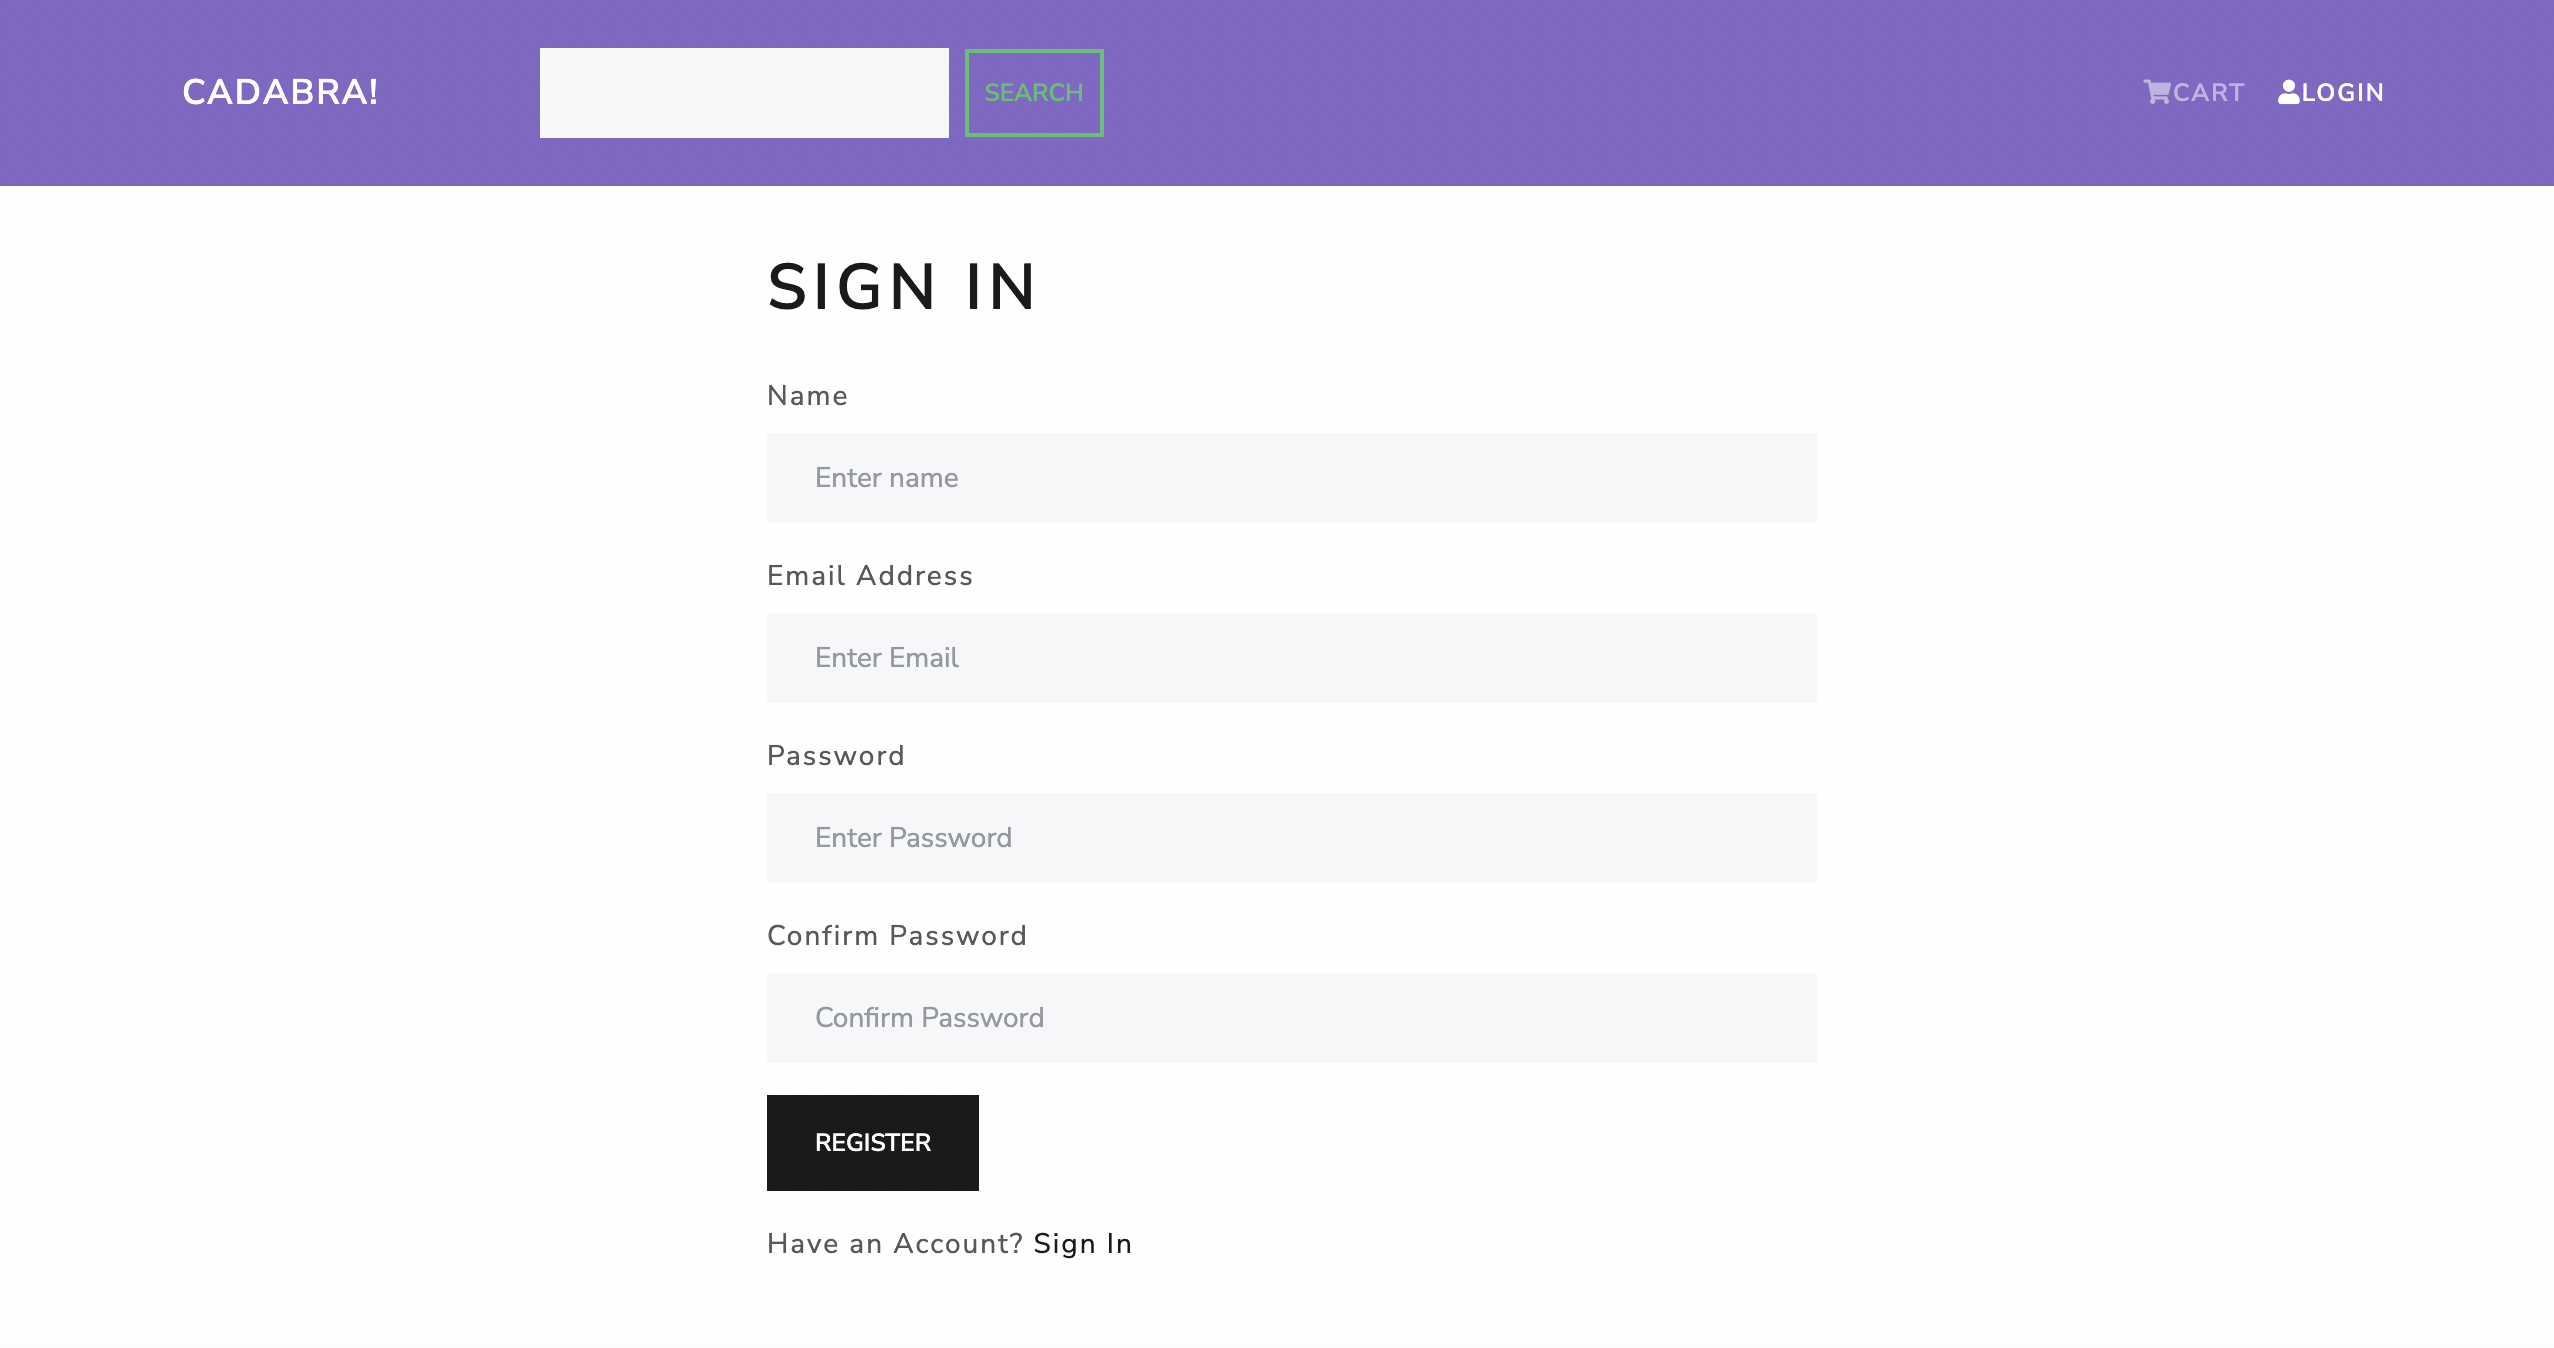
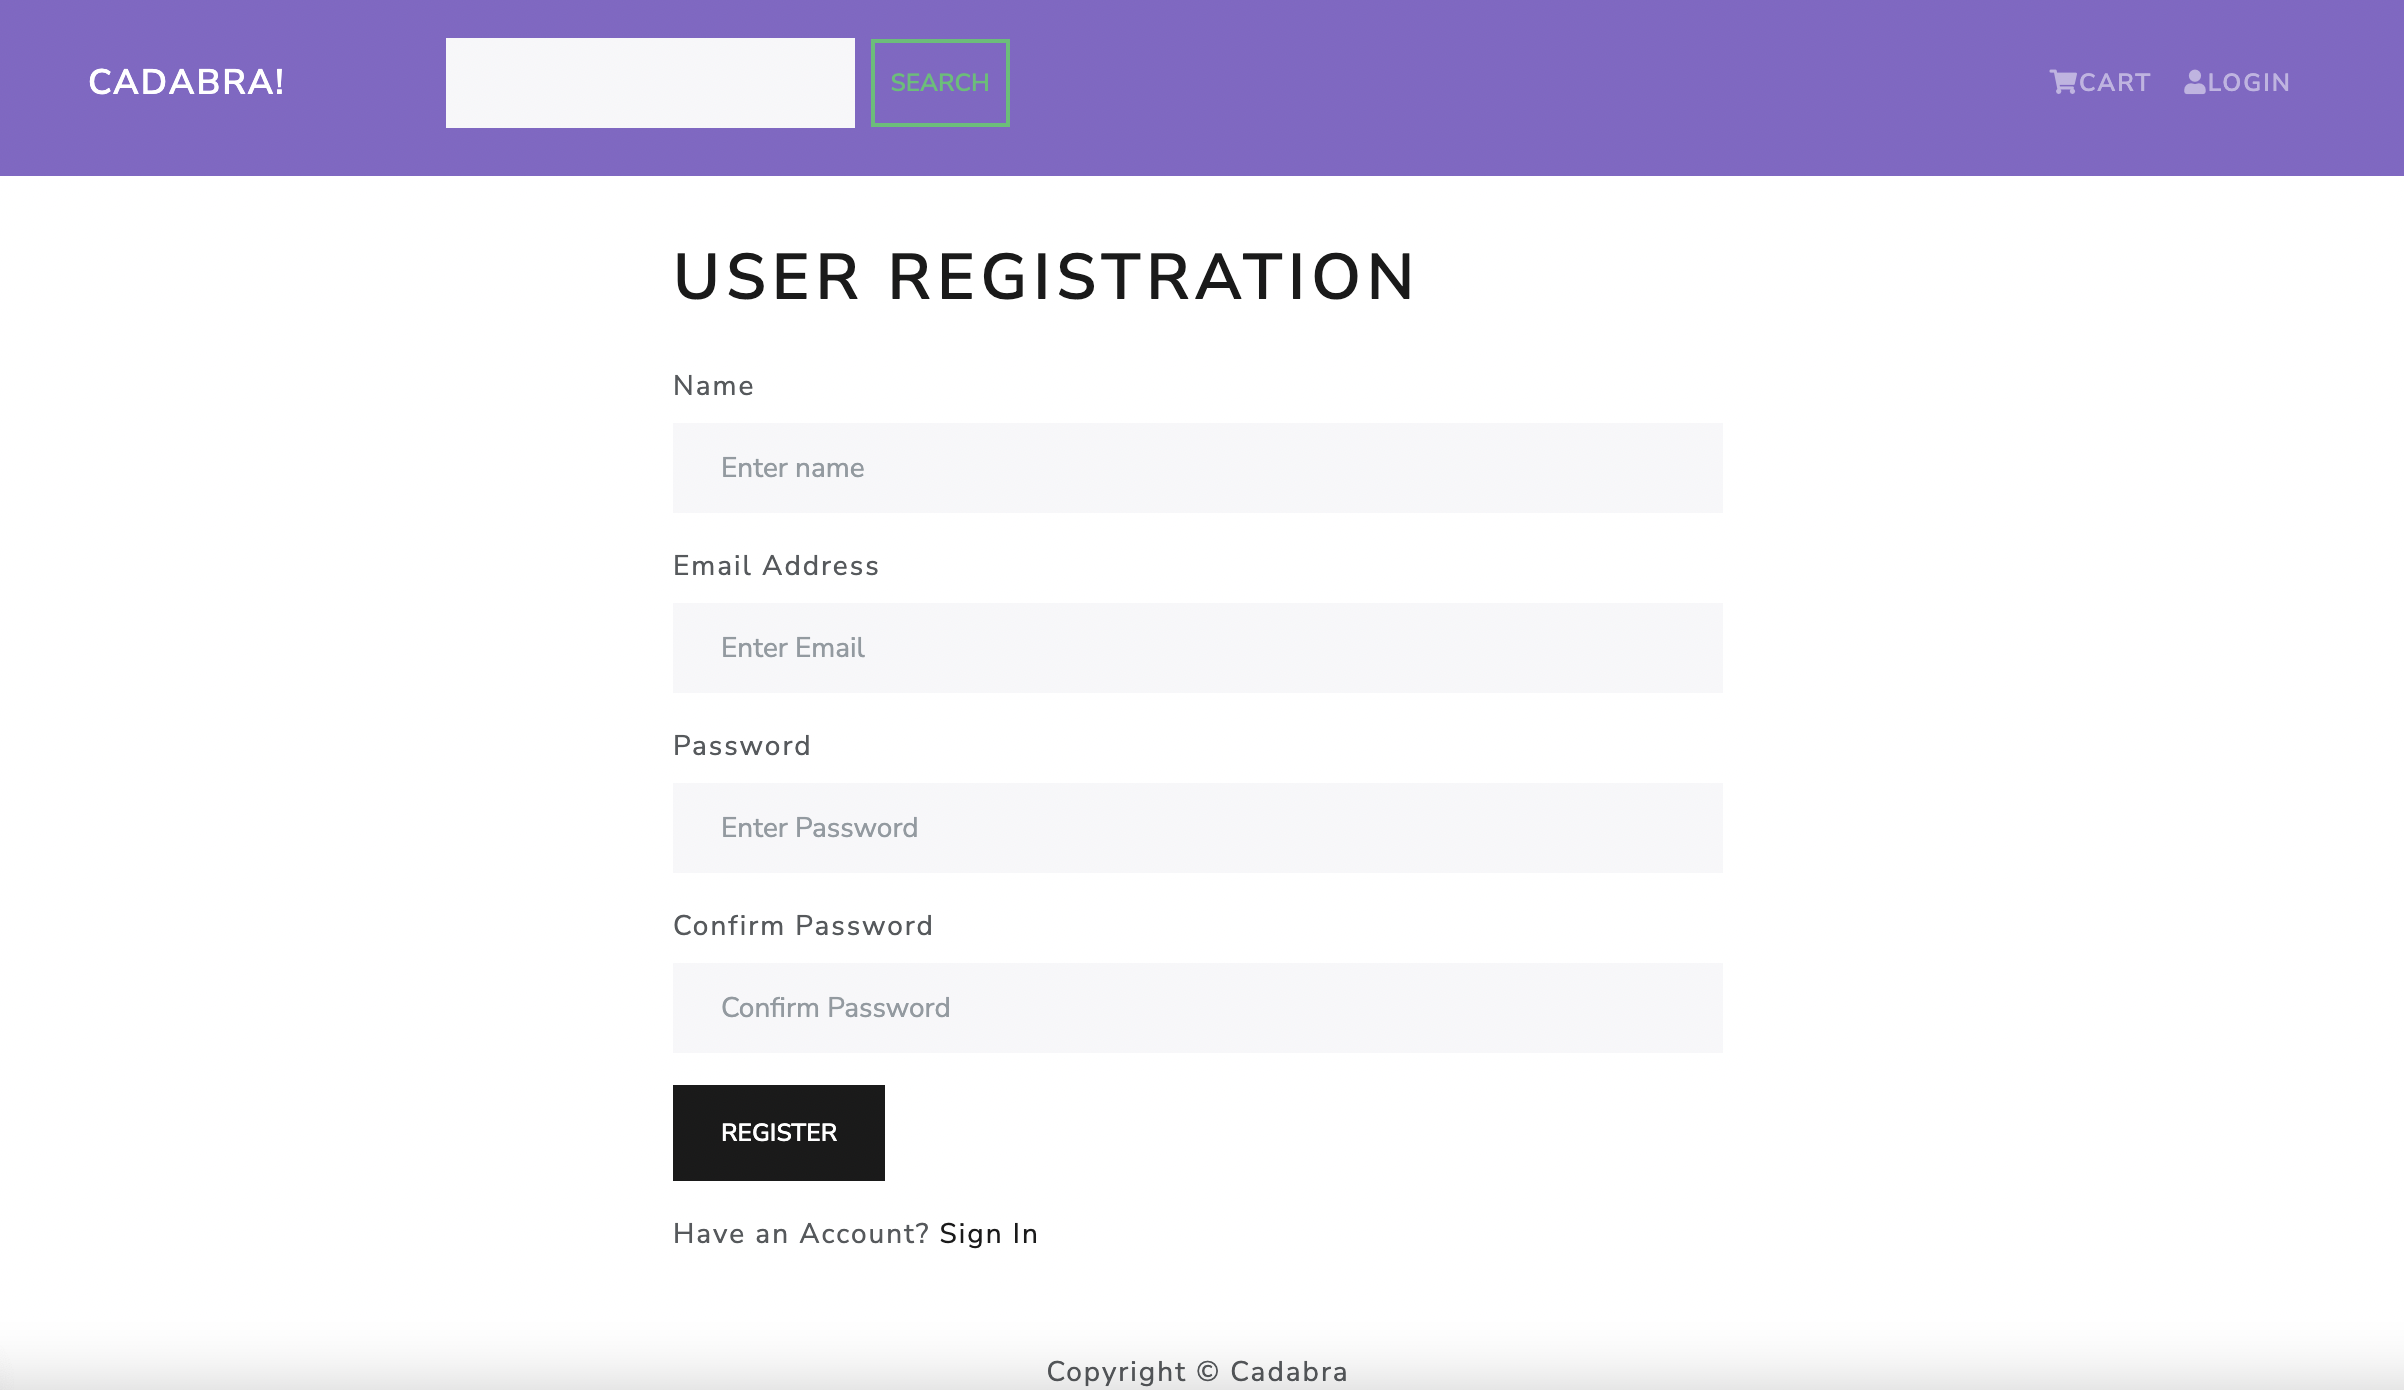
updated UI/UX for Registration made on Mon Oct  2 18:07:49 +08 2023

diff --git a/frontend/src/screens/RegisterScreen.js b/frontend/src/screens/RegisterScreen.js
@@ -41,7 +41,7 @@ function RegisterScreen({ location, history }) {
 
     return (
         <FormContainer>
-            <h1>Sign In</h1>
+            <h1>User Registration</h1>
             {message && <Message variant='danger'>{message}</Message>}
             {error && <Message variant='danger'>{error}</Message>}
             {loading && <Loader />}
